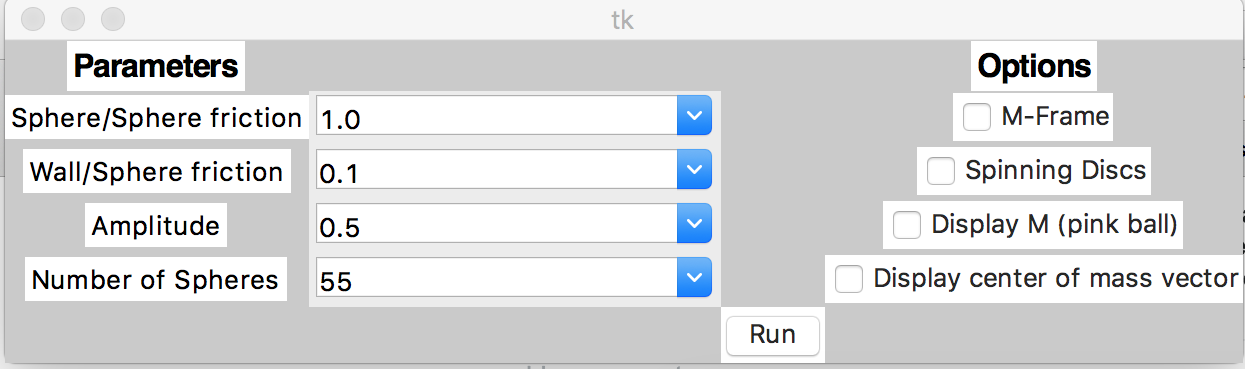
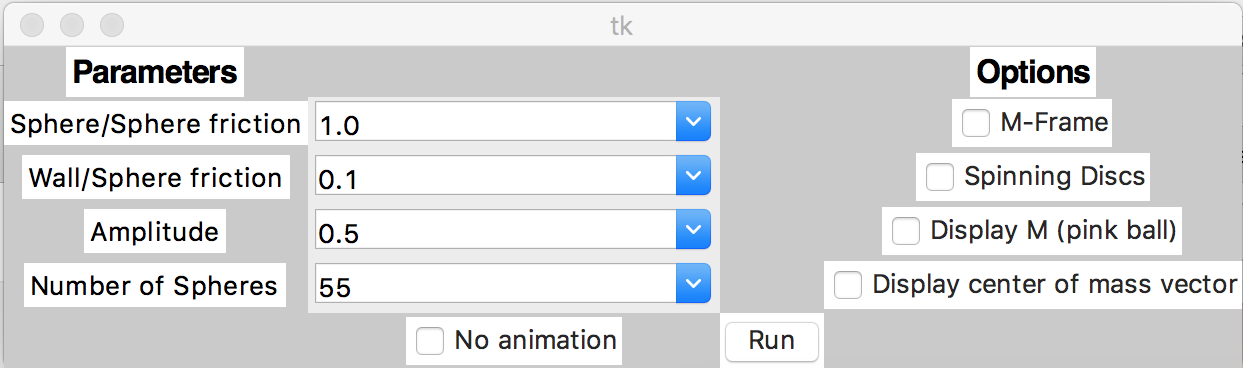
fixed menu

Changed region(s): [[0.0, 0.0, 1.0, 1.0], [0.9783, 0.9565, 1.0, 1.0], [0.0, 0.9565, 0.0306, 1.0]]

diff --git a/menu.py b/menu.py
@@ -7,7 +7,7 @@ import subprocess
 root = Tk()
 root['bg']="gray"
 m, s, p, v = IntVar(),IntVar(),IntVar(),IntVar()
-
+no_anim = IntVar()
 def run():
     s1 = " mu="+mu_box.get()
     s2 = " wmu="+wmu_box.get()
@@ -18,9 +18,10 @@ def run():
     s7 = " pink="+str(p.get())
     s8 = " vector="+str(v.get())
    
-
-    print "make sim"+s1+s2+s3+s4+s5+s6+s7+s8
-    subprocess.call("make sim"+s1+s2+s3+s4+s5+s6+s7+s8, shell=True)
+    if(no_anim.get()==1):
+        subprocess.call("make sim"+s1+s2+s3+s4+s5+s6+s7+s8, shell=True)
+    else:
+        subprocess.call("make run"+s1+s2+s3+s4+s5+s6+s7+s8, shell=True)        
 
 
 
@@ -40,6 +41,9 @@ pink = Checkbutton(root, text="Display M (pink ball)", command=None, variable=p)
 pink.grid(row=3,column=3)
 vector = Checkbutton(root, text="Display center of mass vector", command=None, variable=v)
 vector.grid(row=4,column=3)
+
+na_cb = Checkbutton(root, text="No animation", command=None, variable=no_anim)
+na_cb.grid(row=5,column=1)
 
 
 mu_box = Combobox(root, state="readonly")
